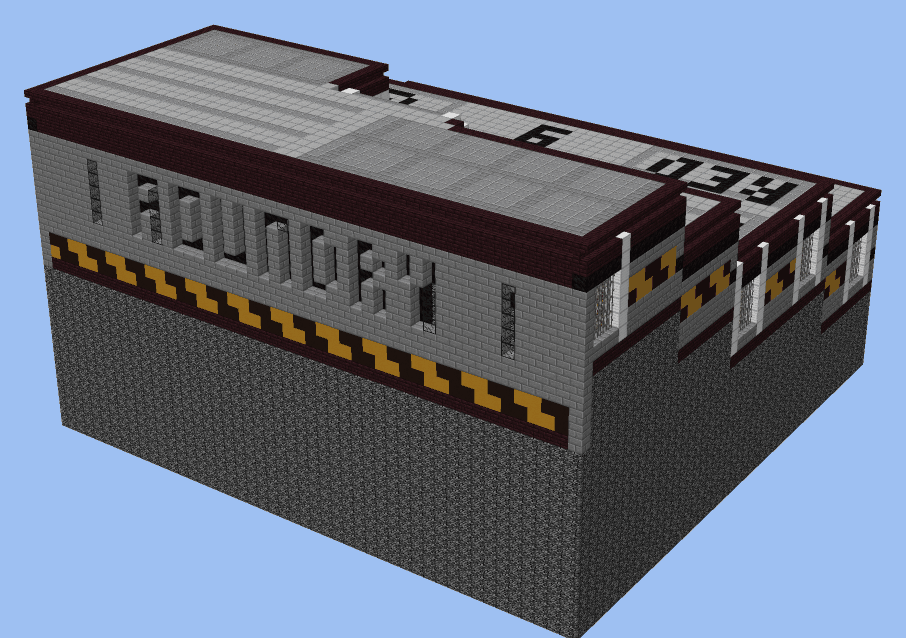
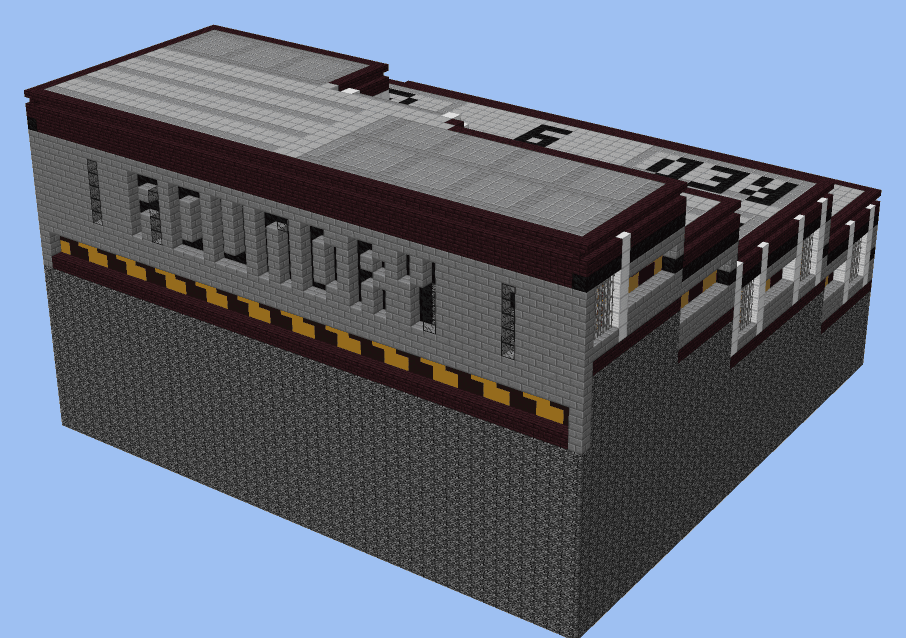
Foundry: the hazard band sunk a block into the face
Claude-Session: https://claude.ai/code/session_01BTbdbs1F9mLfkg8aXmtEMq

Changed region(s): [[0.0309, 0.3574, 0.6181, 0.685], [0.6799, 0.3871, 0.8035, 0.5063], [0.8344, 0.4169, 0.9581, 0.4765]]

diff --git a/freeform/lib/pgmvox/grammar/foundry.py b/freeform/lib/pgmvox/grammar/foundry.py
@@ -7,7 +7,7 @@ behind grilles.
     the body        stone brick with cracked ones through it, a course of coal under the floor's four, bedrock to y 1,
                     block 36 at y 0
     the edge        nine courses: an upside-down nether-brick stair at the rim, nether brick, coal, stone brick, a
-                    hazard band two courses high of yellow and black clay on the diagonal, stone brick, nether brick
+                    hazard band two courses high of yellow and black clay on the diagonal, sunk a block, stone brick, nether brick
                     at the foot; every other bay of five, two iron columns over a grille of bars lit by glowstone
                     behind it
     the show face   fourteen courses of stone brick, a word sunk in coal, slits of black glass and the hazard band
@@ -39,8 +39,8 @@ def _rim(inward):
 
 
 def hazard(t0, t1, period=4):
-    """A face pattern: yellow and black on the diagonal from course t0 to t1."""
-    return lambda s, run, t, h, n: ("accent", YELLOW if (s + t) % period < period // 2 else BLACK) \
+    """A face pattern: yellow and black on the diagonal from course t0 to t1, sunk a block into the face."""
+    return lambda s, run, t, h, n: ("inset", YELLOW if (s + t) % period < period // 2 else BLACK) \
         if t0 <= t <= t1 else None
 
 
